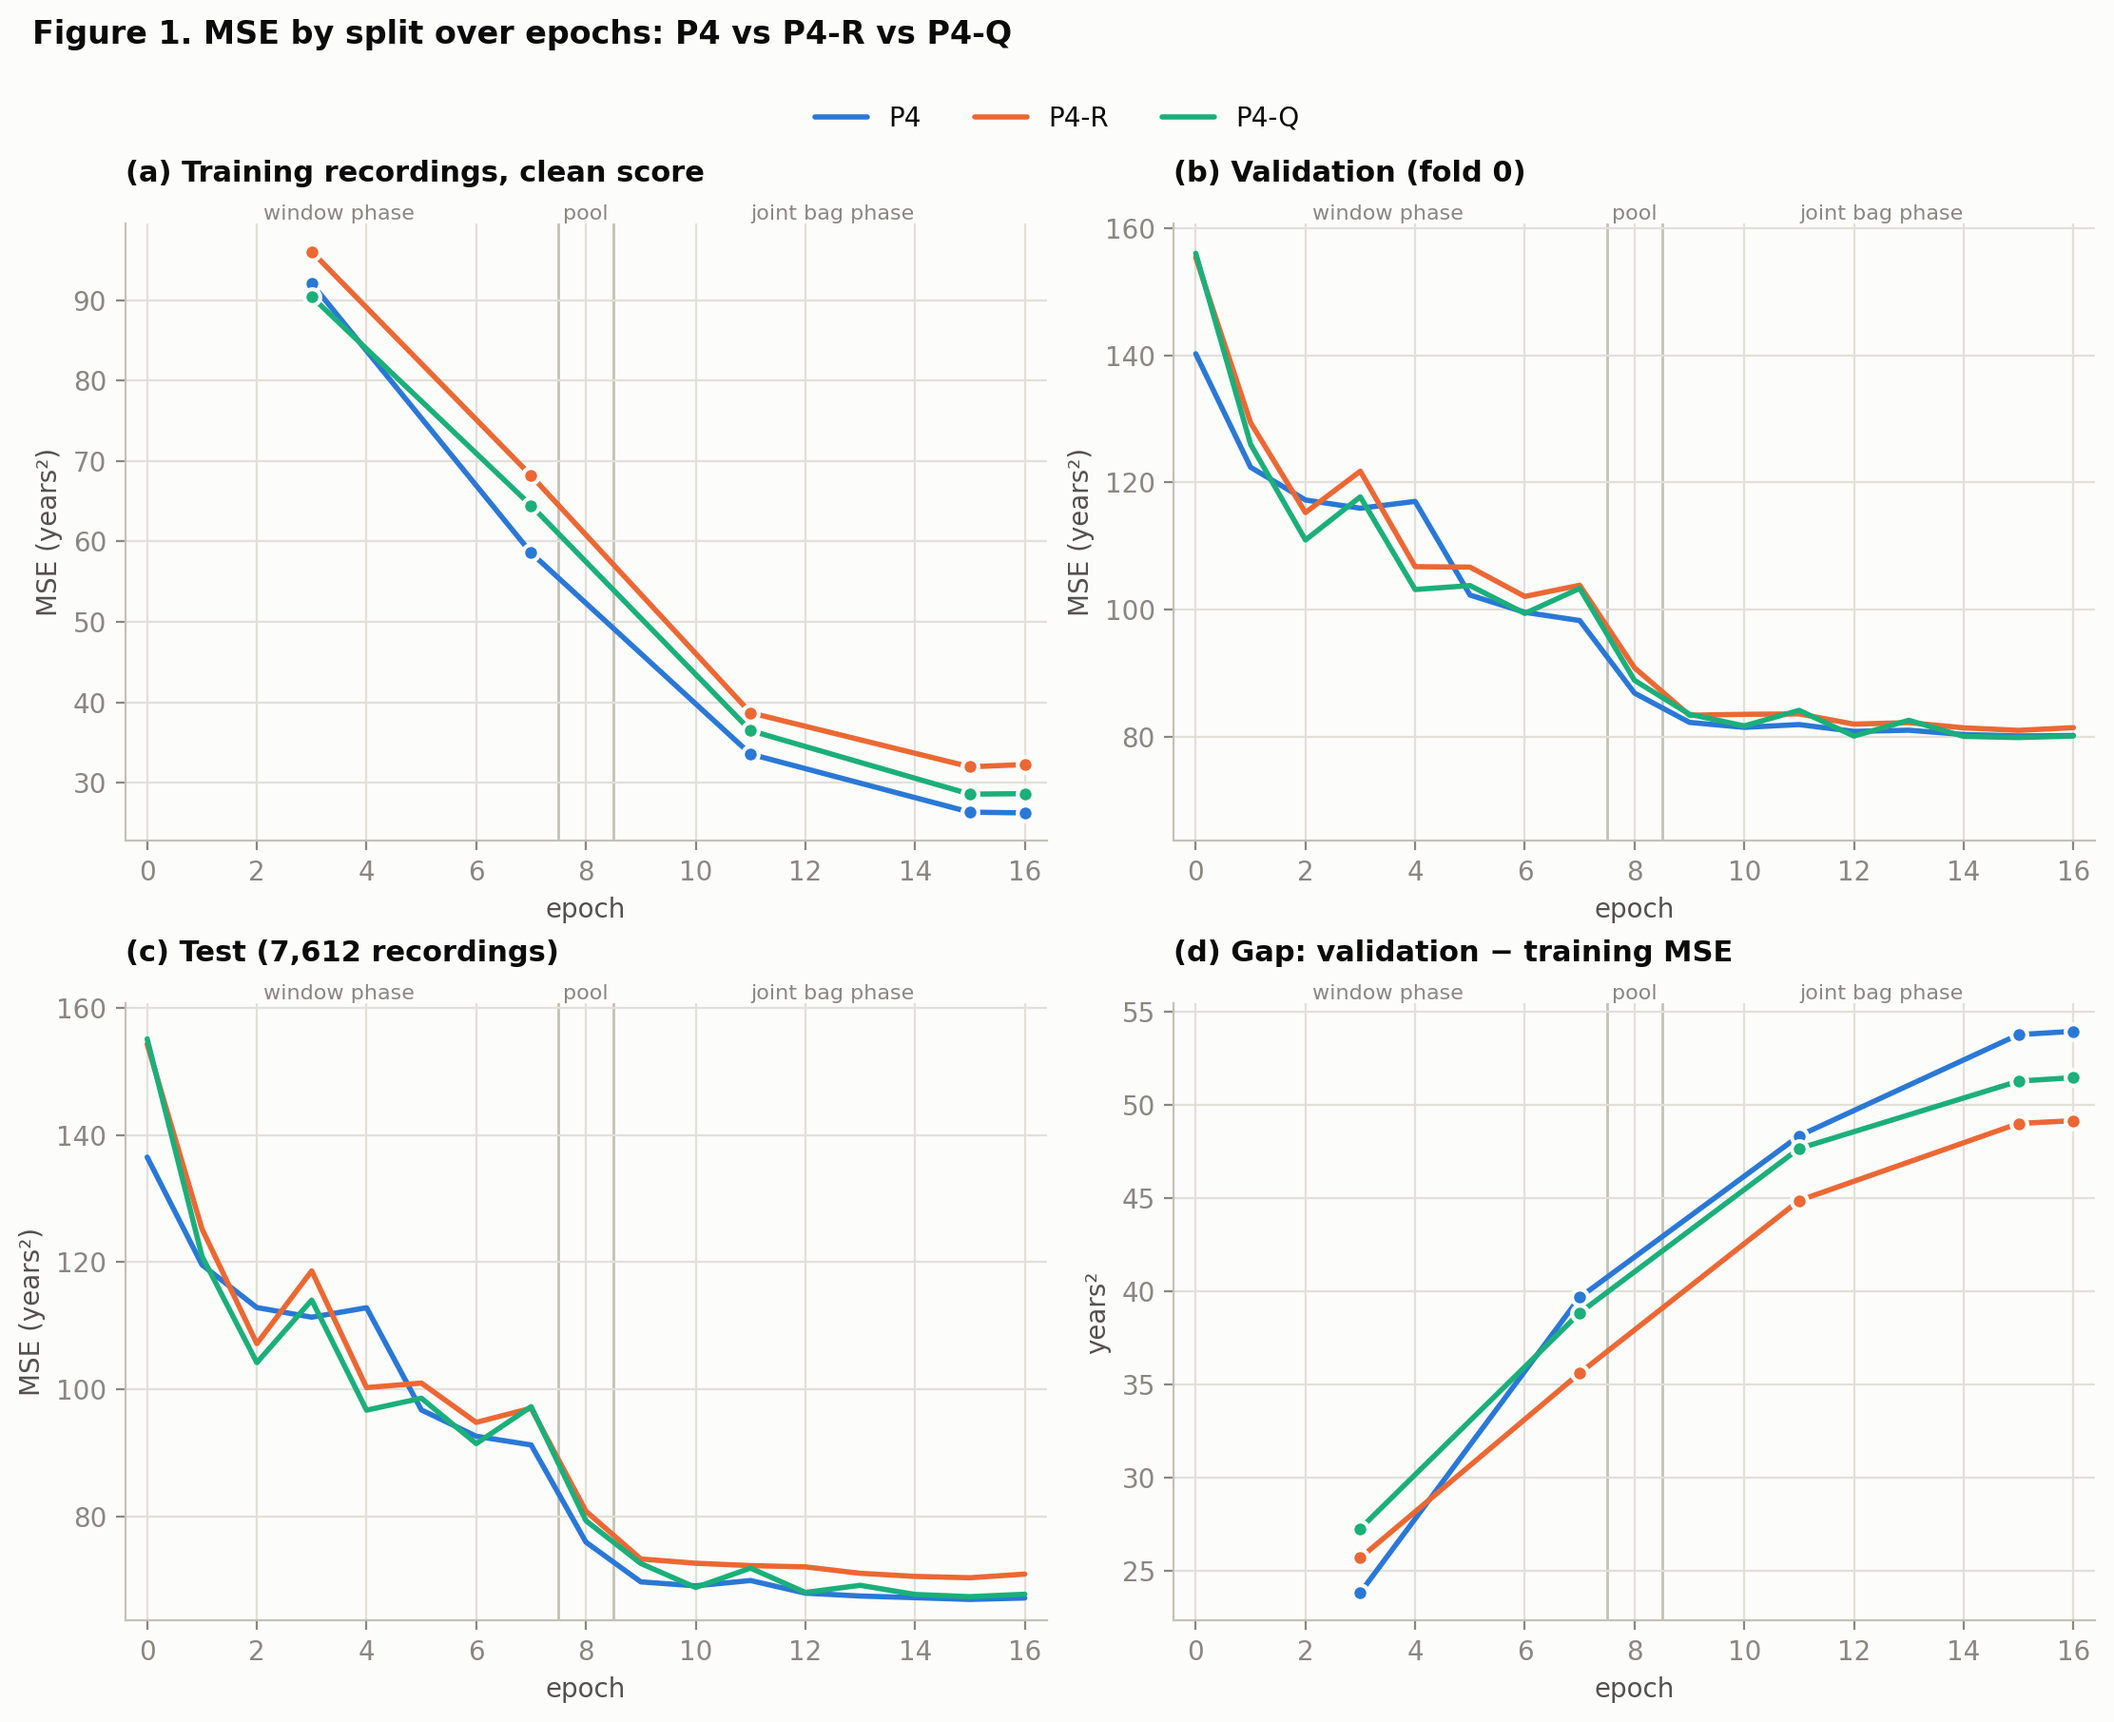
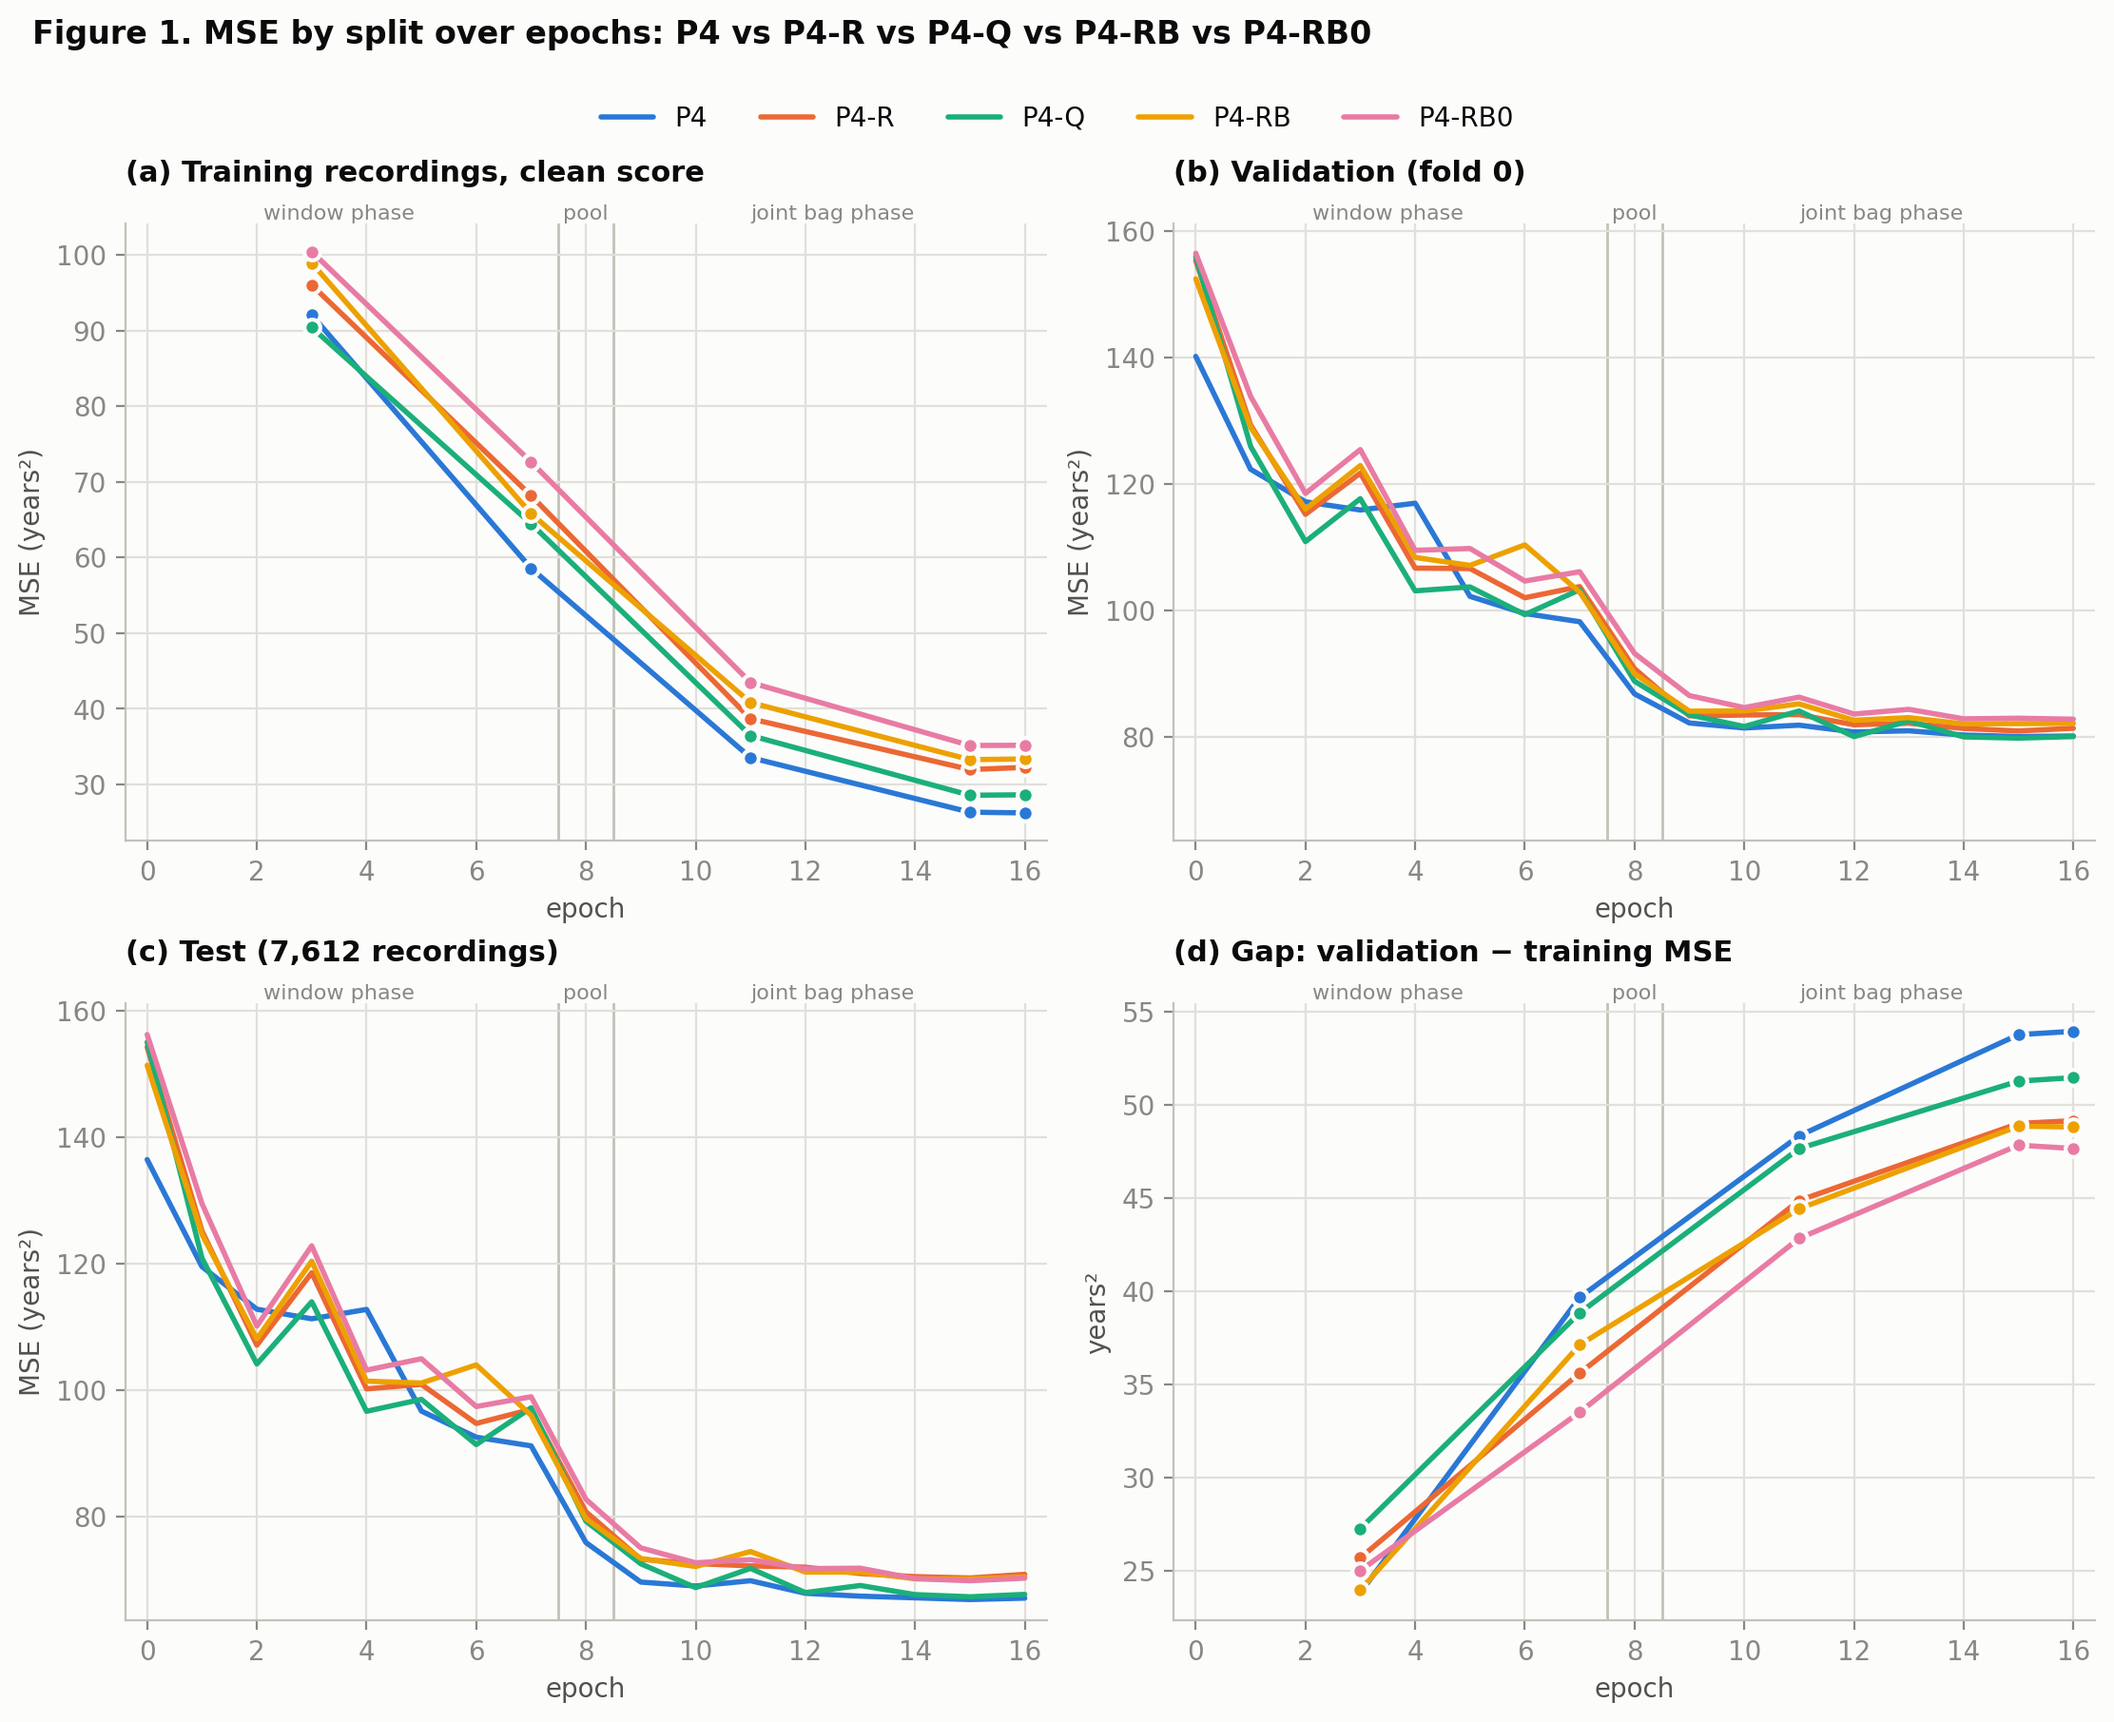
P4 codebook_aux fold 0: band-limited reconstruction runs P4-RB (1-45 Hz) and P4-RB0 (0-45 Hz) added to the fit curves; Figure 4 with the reconstruction terms; plotting script takes any runs

diff --git a/scripts/plot_codebook_aux_fit_curves.py b/scripts/plot_codebook_aux_fit_curves.py
@@ -1,11 +1,20 @@
-"""Train / validation / test MSE over epochs for P4, P4-R and P4-Q (fold 0).
+#!/usr/bin/env python
+"""Train / validation / test error over epochs for P4 and its codebook_aux
+variants (P4 fold 0): curves, the generalisation gap, the reconstruction terms,
+and a per-epoch CSV.
+
+    python scripts/plot_codebook_aux_fit_curves.py \\
+        --run P4=<P4 log.txt> --run P4-R=<log.txt> --run P4-Q=<log.txt> \\
+        --run P4-RB=<log.txt> --run P4-RB0=<log.txt> --out docs/data/codebook_aux_p4
 
 Training error: the fixed sample of 500 training recordings per dataset scored
-like validation (no mixup), every 4 epochs and at the last; plus the running
-training MAE of each epoch (mixup targets; windows in epochs 0-7, bags after).
-MSE = RMSE^2 of the recording-level predictions (years^2).
+like validation (``train_eval``, no mixup), every 4 epochs and at the last; plus
+the running training MAE of each epoch (mixup targets; windows in epochs 0-7,
+bags after). MSE = RMSE^2 of the recording-level predictions (years^2). Runs are
+coloured in the order given (categorical slots 1-5 of the reference palette).
 """
 import argparse
+import csv
 import json
 
 import matplotlib
@@ -13,19 +22,19 @@ matplotlib.use("Agg")
 import matplotlib.pyplot as plt  # noqa: E402
 from matplotlib.lines import Line2D  # noqa: E402
 
-ap = argparse.ArgumentParser(description=__doc__)
-ap.add_argument("--p4", required=True, help="log.txt of P4_L1 fold 0")
-ap.add_argument("--p4r", required=True, help="log.txt of P4R_L1 fold 0")
-ap.add_argument("--p4q", required=True, help="log.txt of P4Q_L1 fold 0")
+SLOTS = ["#2a78d6", "#eb6834", "#1baf7a", "#eda100", "#e87ba4"]
+SURFACE, INK, INK2, MUTED, GRID, AXIS = "#fcfcfb", "#0b0b0b", "#52514e", "#898781", "#e1e0d9", "#c3c2b7"
+
+ap = argparse.ArgumentParser(description=__doc__, formatter_class=argparse.RawDescriptionHelpFormatter)
+ap.add_argument("--run", action="append", required=True, metavar="NAME=LOG")
 ap.add_argument("--out", default="docs/data/codebook_aux_p4")
 args = ap.parse_args()
-LOGS = {"P4": args.p4, "P4-R": args.p4r, "P4-Q": args.p4q}
-COLOR = {"P4": "#2a78d6", "P4-R": "#eb6834", "P4-Q": "#1baf7a"}        # categorical slots 1-3
-SURFACE, INK, INK2, MUTED, GRID, AXIS = "#fcfcfb", "#0b0b0b", "#52514e", "#898781", "#e1e0d9", "#c3c2b7"
+if len(args.run) > len(SLOTS):
+    raise SystemExit(f"at most {len(SLOTS)} runs (one colour each)")
+LOGS = dict(item.split("=", 1) for item in args.run)
+COLOR = dict(zip(LOGS, SLOTS))
 OUT = args.out
-
 rows = {k: [json.loads(line) for line in open(p) if line.startswith("{")] for k, p in LOGS.items()}
-EP = list(range(17))
 
 
 def series(run, key, square=True):
@@ -70,12 +79,16 @@ def finish(ax, title, ylabel):
     ax.set_xlim(-0.4, 16.4)
 
 
-legend_runs = [Line2D([], [], color=COLOR[r], linewidth=2, label=r) for r in COLOR]
+def legend(fig, runs, y):
+    handles = [Line2D([], [], color=COLOR[r], linewidth=2, label=r) for r in runs]
+    fig.legend(handles=handles, loc="upper center", ncol=len(runs), frameon=False, bbox_to_anchor=(0.5, y))
 
+
+runs = list(LOGS)
 # ---------------------------------------------------------------- Figure 1
 fig, axes = plt.subplots(2, 2, figsize=(11, 8.2), constrained_layout=True)
 (a, b), (c, d) = axes
-for run in COLOR:
+for run in runs:
     line(a, *series(run, "train_eval_rmse"), run, marker="o")
     line(b, *series(run, "val_rmse"), run)
     line(c, *series(run, "test_rmse"), run)
@@ -86,20 +99,21 @@ finish(a, "(a) Training recordings, clean score", "MSE (years²)")
 finish(b, "(b) Validation (fold 0)", "MSE (years²)")
 finish(c, "(c) Test (7,612 recordings)", "MSE (years²)")
 finish(d, "(d) Gap: validation − training MSE", "years²")
-lo = min(min(series(r, k)[1]) for r in COLOR for k in ("val_rmse", "test_rmse"))
-hi = max(max(series(r, k)[1]) for r in COLOR for k in ("val_rmse", "test_rmse"))
+lo = min(min(series(r, k)[1]) for r in runs for k in ("val_rmse", "test_rmse"))
+hi = max(max(series(r, k)[1]) for r in runs for k in ("val_rmse", "test_rmse"))
 for ax in (b, c):
     ax.set_ylim(lo * 0.95, hi * 1.03)
 for ax in axes.flat:
     phases(ax)
-fig.legend(handles=legend_runs, loc="upper center", ncol=3, frameon=False, bbox_to_anchor=(0.5, 1.045))
-fig.suptitle("Figure 1. MSE by split over epochs: P4 vs P4-R vs P4-Q", x=0.01, ha="left",
+legend(fig, runs, 1.045)
+fig.suptitle("Figure 1. MSE by split over epochs: " + " vs ".join(runs), x=0.01, ha="left",
              y=1.085, fontsize=12, fontweight="semibold")
 fig.savefig(f"{OUT}/fig1_mse_by_split.png", dpi=200, bbox_inches="tight")
 
 # ---------------------------------------------------------------- Figure 2
-fig, axes = plt.subplots(3, 1, figsize=(9, 10.5), sharex=True, sharey=True, constrained_layout=True)
-for ax, run in zip(axes, COLOR):
+fig, axes = plt.subplots(len(runs), 1, figsize=(9, 3.5 * len(runs)), sharex=True, sharey=True,
+                         constrained_layout=True)
+for ax, run in zip(axes, runs):
     line(ax, *series(run, "val_rmse"), run, "-")
     line(ax, *series(run, "test_rmse"), run, "--")
     line(ax, *series(run, "train_eval_rmse"), run, ":", marker="o")
@@ -107,48 +121,81 @@ for ax, run in zip(axes, COLOR):
     if ax is not axes[-1]:
         ax.set_xlabel("")
     xs, tr = series(run, "train_eval_rmse")
-    ax.annotate(f"gap {rows[run][16]['val_rmse'] ** 2 - tr[-1]:.0f}", xy=(16, (rows[run][16]["val_rmse"] ** 2 + tr[-1]) / 2),
-                xytext=(6, 0), textcoords="offset points", va="center", fontsize=9, color=INK2)
-    ax.annotate("", xy=(16.15, tr[-1]), xytext=(16.15, rows[run][16]["val_rmse"] ** 2),
+    v_end = rows[run][-1]["val_rmse"] ** 2
+    ax.annotate(f"gap {v_end - tr[-1]:.0f}", xy=(16, (v_end + tr[-1]) / 2), xytext=(6, 0),
+                textcoords="offset points", va="center", fontsize=9, color=INK2)
+    ax.annotate("", xy=(16.15, tr[-1]), xytext=(16.15, v_end),
                 arrowprops=dict(arrowstyle="<->", color=MUTED, linewidth=1))
 for ax in axes:
     phases(ax, label=ax is axes[0])
-style_key = [Line2D([], [], color=INK2, linestyle=s, marker=m, markersize=5, markeredgecolor=SURFACE, label=l)
-             for s, m, l in (("-", None, "validation"), ("--", None, "test"), (":", "o", "training recordings (clean)"))]
-fig.legend(handles=style_key, loc="upper center", ncol=3, frameon=False, bbox_to_anchor=(0.5, 1.03))
+style_key = [Line2D([], [], color=INK2, linestyle=s, marker=m, markersize=5, markeredgecolor=SURFACE, label=lab)
+             for s, m, lab in (("-", None, "validation"), ("--", None, "test"),
+                               (":", "o", "training recordings (clean)"))]
+fig.legend(handles=style_key, loc="upper center", ncol=3, frameon=False, bbox_to_anchor=(0.5, 1.02))
 fig.suptitle("Figure 2. Training vs validation vs test MSE, one panel per run", x=0.01, ha="left",
-             y=1.06, fontsize=12, fontweight="semibold")
+             y=1.04, fontsize=12, fontweight="semibold")
 fig.savefig(f"{OUT}/fig2_mse_per_run.png", dpi=200, bbox_inches="tight")
 
 # ---------------------------------------------------------------- Figure 3
 fig, axes = plt.subplots(1, 2, figsize=(11, 4.4), constrained_layout=True)
 a, b = axes
-for run in COLOR:
+for run in runs:
     line(a, *series(run, "train_mae", square=False), run)
     line(a, *series(run, "train_eval_mae", square=False), run, ":", marker="o")
     line(b, *series(run, "val_mae", square=False), run)
 finish(a, "(a) Training MAE: running (solid) and clean (dotted)", "MAE (years)")
 finish(b, "(b) Validation MAE", "MAE (years)")
-a.set_ylim(b.get_ylim()[0] * 0 + 3, max(a.get_ylim()[1], b.get_ylim()[1]))
+a.set_ylim(3, max(a.get_ylim()[1], b.get_ylim()[1]))
 b.set_ylim(a.get_ylim())
 for ax in axes:
     phases(ax)
 a.text(8.6, 9.6, "running MAE: mixup targets;\nwindows in 0-7, bags from 8", fontsize=8, color=MUTED, va="top")
-fig.legend(handles=legend_runs, loc="upper center", ncol=3, frameon=False, bbox_to_anchor=(0.5, 1.1))
+legend(fig, runs, 1.1)
 fig.suptitle("Figure 3. MAE every epoch, including the running training error", x=0.01, ha="left",
              y=1.2, fontsize=12, fontweight="semibold")
 fig.savefig(f"{OUT}/fig3_mae_running.png", dpi=200, bbox_inches="tight")
-print("ok")
 
-# per-epoch table next to the figures
-import csv  # noqa: E402
+# ---------------------------------------------------------------- Figure 4
+import statistics  # noqa: E402
+# every run that logged the reconstruction; it was scored (weight > 0) where the
+# auxiliary loss equals it, otherwise only monitored (P4-Q)
+recon_runs = [r for r in runs if any("train_aux_recon_loss" in x for x in rows[r])]
+scored_runs = [r for r in recon_runs if statistics.median(
+    abs(x["train_aux_loss"] - x["train_aux_recon_loss"]) for x in rows[r] if "train_aux_recon_loss" in x) < 1e-6]
+if recon_runs:
+    fig, axes = plt.subplots(1, 2, figsize=(11, 4.4), constrained_layout=True)
+    a, b = axes
+    for run in scored_runs:
+        line(a, *series(run, "train_aux_recon_loss", square=False), run, marker="o")
+    for run in recon_runs:
+        full = series(run, "train_aux_recon_full_loss", square=False)
+        if not full[0]:                      # scored on all kept bins: the same series
+            full = series(run, "train_aux_recon_loss", square=False)
+        line(b, *full, run, marker="o")
+    finish(a, "(a) Scored reconstruction loss (its own band)", "loss (1 = no information)")
+    finish(b, "(b) Reconstruction loss over all of 0-99 Hz (all logged runs)", "loss (1 = no information)")
+    a.set_ylim(0, 0.3)
+    b.set_ylim(0, 1.0)
+    for ax in axes:
+        phases(ax)
+    legend(fig, recon_runs, 1.1)
+    fig.suptitle("Figure 4. Reconstruction terms during training (epoch means, drop-path on)", x=0.01,
+                 ha="left", y=1.2, fontsize=12, fontweight="semibold")
+    fig.savefig(f"{OUT}/fig4_reconstruction_terms.png", dpi=200, bbox_inches="tight")
+
+# ---------------------------------------------------------------- table
 with open(f"{OUT}/per_epoch.csv", "w", newline="") as fh:
     w = csv.writer(fh)
     w.writerow(["run", "epoch", "train_running_mae", "train_clean_mse", "train_clean_mae", "val_mse", "val_mae",
-                "test_mse", "test_mae", "lemon_mae", "tdbrain_mae"])
+                "test_mse", "test_mae", "lemon_mae", "tdbrain_mae", "aux_recon_scored", "aux_recon_0_99hz",
+                "aux_quant", "aux_codes", "train_age_loss"])
     for run, rs in rows.items():
         for r in rs:
-            sq = lambda k: None if r.get(k) is None else round(r[k] ** 2, 3)
-            rd = lambda k: None if r.get(k) is None else round(r[k], 3)
+            sq = lambda k: None if r.get(k) is None else round(r[k] ** 2, 3)      # noqa: E731
+            rd = lambda k: None if r.get(k) is None else round(r[k], 4)          # noqa: E731
+            full = rd("train_aux_recon_full_loss") if "train_aux_recon_full_loss" in r else rd("train_aux_recon_loss")
             w.writerow([run, r["epoch"], rd("train_mae"), sq("train_eval_rmse"), rd("train_eval_mae"), sq("val_rmse"),
-                        rd("val_mae"), sq("test_rmse"), rd("test_mae"), rd("test_lemon_mae"), rd("test_tdbrain_mae")])
+                        rd("val_mae"), sq("test_rmse"), rd("test_mae"), rd("test_lemon_mae"), rd("test_tdbrain_mae"),
+                        rd("train_aux_recon_loss"), full, rd("train_aux_quant_loss"), rd("train_aux_codes"),
+                        rd("train_aux_task_loss") if "train_aux_task_loss" in r else rd("train_loss")])
+print("ok")
